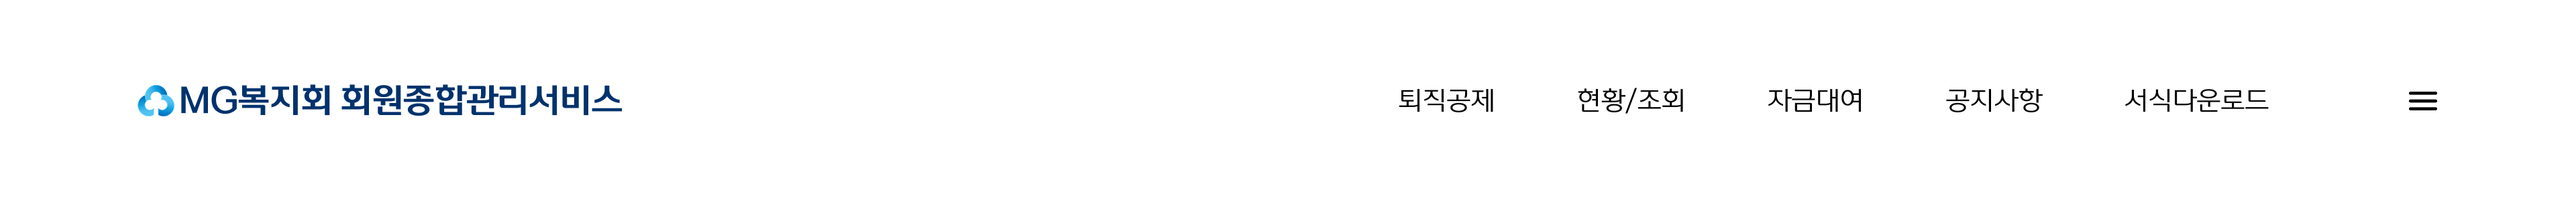
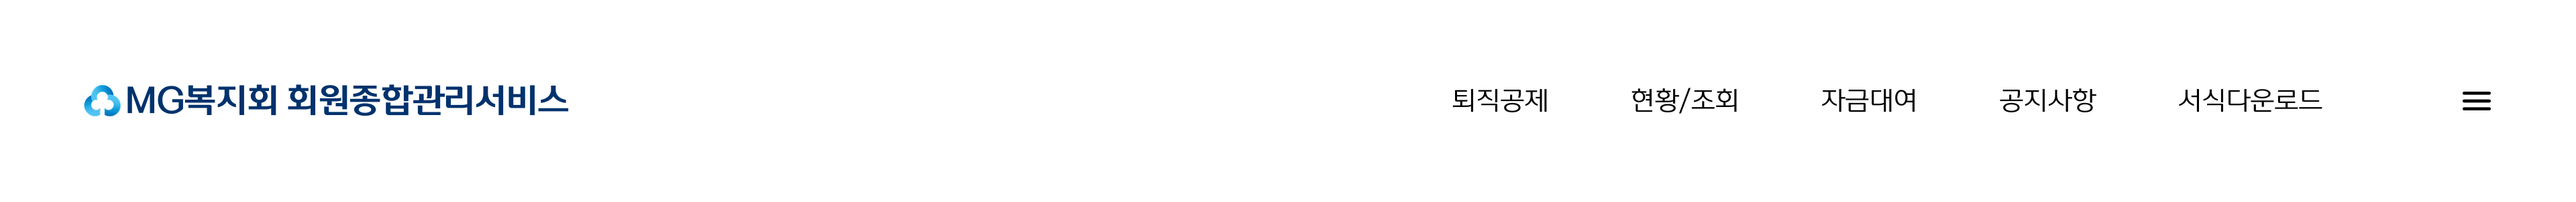
b type service 수정

Changed region(s): [[0.5312, 0.447, 0.9062, 0.5662], [0.0312, 0.4172, 0.25, 0.596], [0.9375, 0.447, 0.9688, 0.5662]]

diff --git a/B/service/index.html b/B/service/index.html
@@ -9,6 +9,12 @@
         body {
             background-color: #EDF1F6;
         }
+
+        header {
+            display: block;
+            max-width: 1920px;
+            margin: 0 auto;
+        }
         
         main {
             width: 100%;
@@ -50,6 +56,17 @@
         .notice {
             margin-top: 30px;
         }
+
+        footer {
+            padding: 120px 0 70px;
+        }
+
+        footer img {
+            display: block;
+            width: 100%;
+            max-width: 1800px;
+            margin: 0 auto;
+        }
     </style>
 </head>
 <body>
@@ -70,7 +87,6 @@
             <section class="notice">
                 <img src="assets/images/notice.png" alt="">
             </section>
-
         </main>
         <footer>
             <img src="assets/images/footer.png" alt="">
